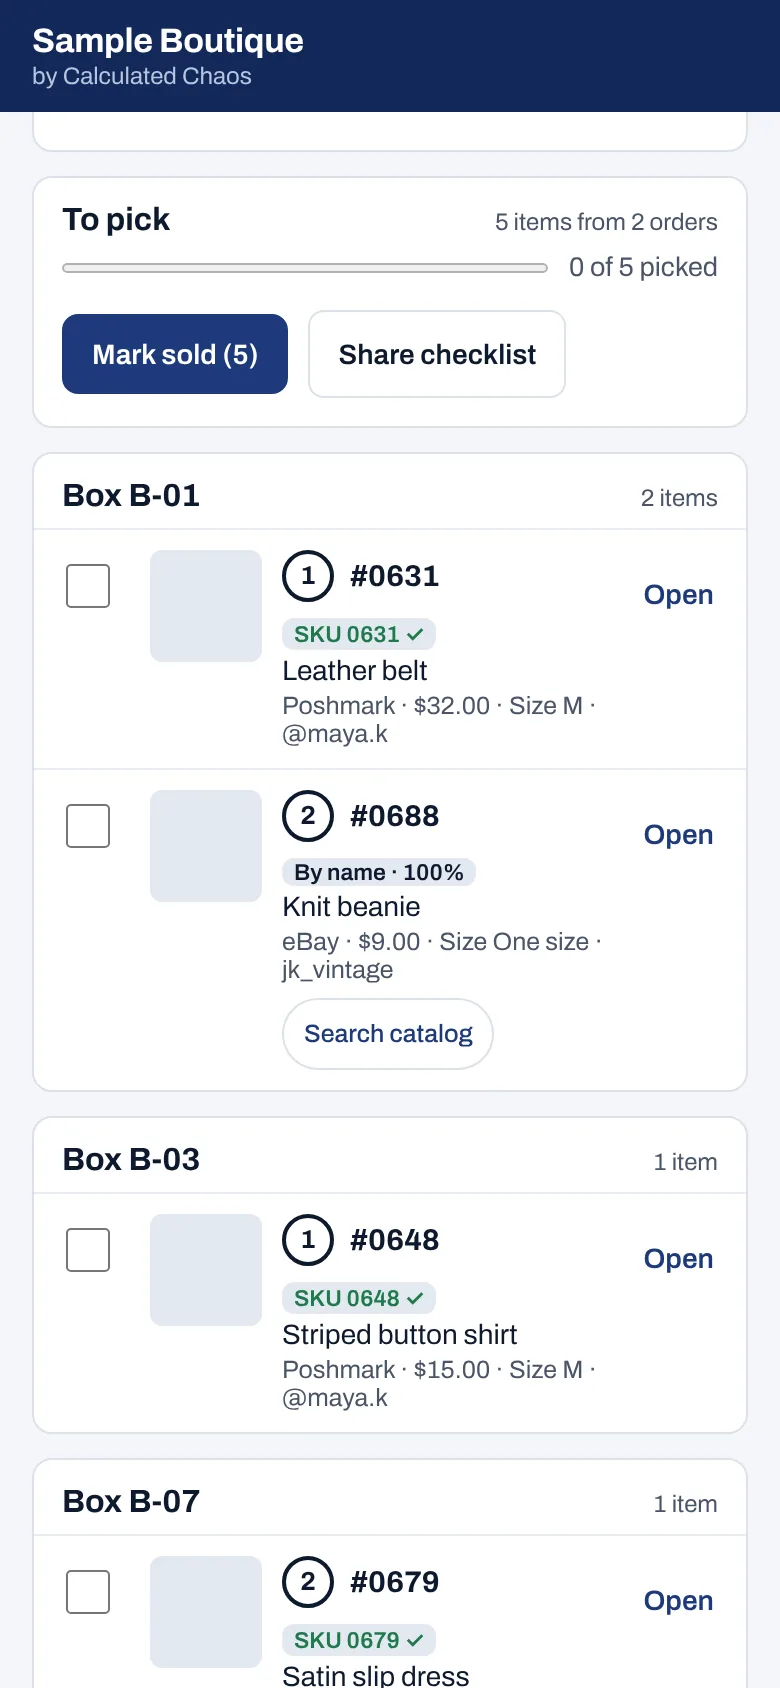
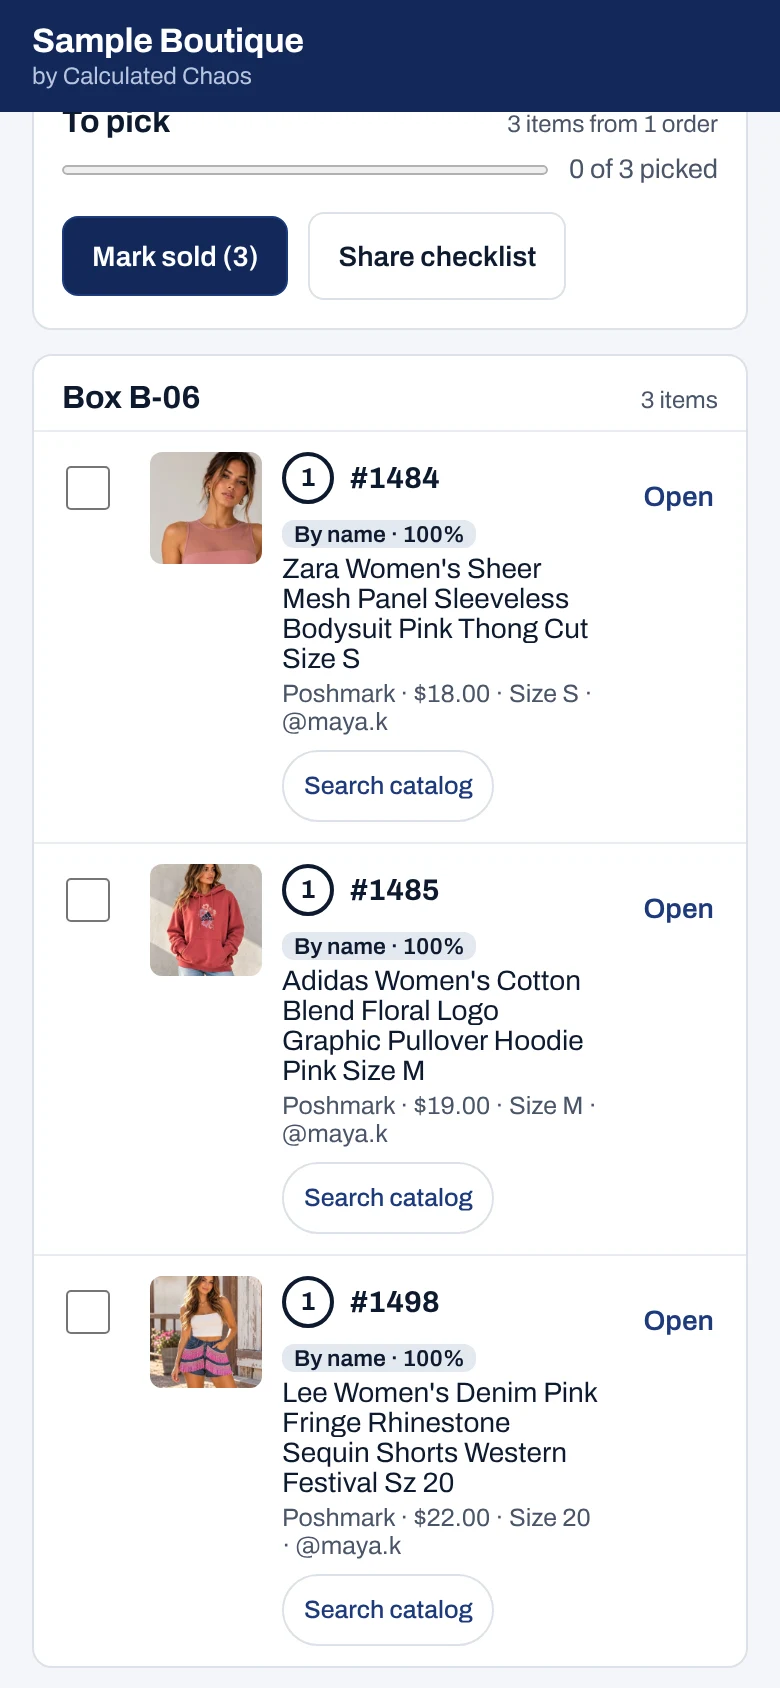
Welcome page: Pick screenshots from the sample list (v3.27.19) (#205)
* Welcome page: inset the listing card, match Parcel tokens to style.css (v3.27.18)

- The listing draft card has 16 px inside space; its text no longer
  touches the frame or the caption.
- The welcome page's Parcel tokens now use style.css values for line,
  profit (= ok) and warning (= warn-ink); the comment said they matched
  and they did not.
- Surface briefs follow their files: index-html.md is the welcome page
  (index.html), app-html.md is the app shell (app.html). welcome-html.md
  pointed at a file that no longer exists.

Claude-Session: https://claude.ai/code/session_01BkcLUQWNuzU2vURWuG7pMR

* Harness: photos for the Pick thumbnails

The five pieces on the sample Pick list get a photo (belt, striped shirt,
corduroy pants, slip dress, beanie). Sample data for screenshots only; the
app and the welcome page are unchanged.

Claude-Session: https://claude.ai/code/session_01BkcLUQWNuzU2vURWuG7pMR

* Harness: Pick thumbnails from the owner's photos

Pants use the fringe denim shorts, the striped shirt uses the pink mesh
bodysuit, the slip dress uses the tan smocked dress already in the welcome
photos. The belt and the beanie keep their generated images: no uploaded
photo matches them. Sample data for screenshots only.

Claude-Session: https://claude.ai/code/session_01BkcLUQWNuzU2vURWuG7pMR

* Harness: Pick list built from the owner's three photos and cards

The sample Pick list is one Poshmark order with three pieces (shorts,
[…]

diff --git a/tests/harness/sample-data.js b/tests/harness/sample-data.js
@@ -6,6 +6,18 @@
 const DAY = 24 * 60 * 60 * 1000;
 const BIZ = 'businesses/harness';
 
+// Thumbnails for the pieces on the Pick list (the photos the Pick screen draws).
+const PICK_PHOTOS = {
+  '#0631': '/tests/harness/photos/pick-belt.webp',
+  '#0648': '/tests/harness/photos/pick-bodysuit.webp',
+  '#0662': '/tests/harness/photos/pick-pants.webp',
+  '#0679': '/welcome/sample-photo-2.webp',
+  '#0688': '/tests/harness/photos/pick-beanie.webp',
+  '#1498': '/tests/harness/photos/pick-shorts.webp',
+  '#1484': '/tests/harness/photos/pick-bodysuit.webp',
+  '#1485': '/tests/harness/photos/pick-hoodie.webp',
+};
+
 // [code, name, clothingType, brand, size, color, cost, listPrice, status,
 //  platforms, box, createdDaysAgo, soldDaysAgo, soldPrice, fees, shipping]
 const PIECES = [
@@ -34,6 +46,10 @@ const PIECES = [
   ['#0774', 'Quilted jacket', 'Jacket', 'Lands’ End', 'L', 'Green', 8, 40, 'catalogado', [], 'B-07', 0, null, null, null, null],
   ['#0779', 'Athletic leggings', 'Pants', 'Lululemon', '6', 'Black', 5, 24, 'catalogado', [], 'B-03', 0, null, null, null, null],
   ['#0781', 'Denim mini skirt', 'Skirt', 'Abercrombie', '4', 'Indigo', 3, 16, 'catalogado', [], 'B-12', 0, null, null, null, null],
+  // The three pieces on the sample Pick list (photos and names from the owner's cards).
+  ['#1498', "Lee Women's Denim Pink Fringe Rhinestone Sequin Shorts Western Festival Sz 20", 'Shorts', 'Lee', '20', 'Blue', 6, 22, 'anunciado', ['poshmark'], 'B-06', 1, null, null, null, null],
+  ['#1484', "Zara Women's Sheer Mesh Panel Sleeveless Bodysuit Pink Thong Cut Size S", 'Bodysuit', 'Zara', 'S', 'Pink', 5, 18, 'anunciado', ['poshmark'], 'B-06', 2, null, null, null, null],
+  ['#1485', "Adidas Women's Cotton Blend Floral Logo Graphic Pullover Hoodie Pink Size M", 'Hoodie', 'Adidas', 'M', 'Pink', 8, 19, 'anunciado', ['poshmark'], 'B-06', 3, null, null, null, null],
 ];
 
 // A larger sample catalog, so the Home numbers read as a busy business:
@@ -86,7 +102,7 @@ export function sampleDocs(now = Date.now()){
     const netProfit = sold ? Math.round((soldPrice - fees - shipping - cost) * 100) / 100 : null;
     docs.push([`${BIZ}/items/${id}`, {
       id, productCode: code, name, clothingType, category: 'Women', brand, size, color,
-      cost, listPrice, status, listedPlatforms: platforms, storageBox: box, photos: [],
+      cost, listPrice, status, listedPlatforms: platforms, storageBox: box, photos: PICK_PHOTOS[code] ? [PICK_PHOTOS[code]] : [],
       hostedPhotoUrls: null, condition: 'Excellent', createdAt: now - createdDays * DAY,
       ...(sold ? { soldAt, soldPrice, soldPlatform: platforms[0], feesTotal: fees, shippingCost: shipping, otherCosts: 0, netProfit } : {}),
       ...(i === 9 ? { ebayPublishError: { message: 'Missing item specifics: Brand', at: now - DAY } } : {}),

diff --git a/index.html b/index.html
@@ -295,7 +295,7 @@
       <div class="tour-screen">
         <img class="tour-img is-on" src="/welcome/home-phone.webp" width="780" height="1688" alt="Home with sample numbers and the items that need attention">
         <img class="tour-img" src="/welcome/catalog-phone.webp" width="780" height="1688" alt="Catalog with sample pieces, product codes and boxes" aria-hidden="true">
-        <img class="tour-img" src="/welcome/pick-phone.webp" width="780" height="1688" alt="Stock pick list grouped by box, with a warning for a piece still listed elsewhere" aria-hidden="true">
+        <img class="tour-img" src="/welcome/pick-phone.webp" width="780" height="1688" alt="Stock pick list grouped by box, each piece with its photo and its package number" aria-hidden="true">
         <img class="tour-img" src="/welcome/finance-phone.webp" width="780" height="1688" alt="Finances overview with sample sales and profit" aria-hidden="true">
       </div>
     </figure>
@@ -427,7 +427,7 @@
       <figure class="frame" style="margin:0">
         <picture>
           <source media="(max-width: 759px)" srcset="/welcome/pick-phone.webp" width="780" height="1688">
-          <img src="/welcome/pick.webp" width="1968" height="664" alt="The Pick screen with sample data: a To pick list of five items from two orders, grouped by box, each with its package number">
+          <img src="/welcome/pick.webp" width="1968" height="664" alt="The Pick screen with sample data: a To pick list of three items from one order, grouped by box, each with its package number">
         </picture>
         <p class="ok-note"><svg viewBox="0 0 24 24" fill="none" stroke="currentColor" stroke-width="2.2" stroke-linecap="round" stroke-linejoin="round" aria-hidden="true"><path d="M5 12.5l4.5 4.5L19 7.5"/></svg>Sold on Poshmark. Its eBay listing was ended for you.</p>
         <figcaption>Pick list from two sample order screenshots.</figcaption>

diff --git a/src/modules/version.js b/src/modules/version.js
@@ -2,5 +2,5 @@
 // This is what shows in the badge at the top of the app, in CSV exports and
 // in the Developer Panel — it's the single source of truth for "which
 // version is this?"
-export const APP_VERSION = 'v3.27.18';
+export const APP_VERSION = 'v3.27.19';
 export const APP_VERSION_DATE = '2026-10-23';

diff --git a/CLAUDE.md b/CLAUDE.md
@@ -1009,7 +1009,9 @@ on any of these:
 
 ## Pending changelog entry (since v3.27.0)
 
-- v3.27.18: the welcome page's listing card has 16 px of inside space (the text no longer touches the frame or the caption); its Parcel tokens match src/style.css (line, profit and warning colors were off); the welcome brief is `.impeccable/surfaces/index-html.md` and the app shell's is `app-html.md`. Pending: the Pick sample thumbnails (photos for the belt, shirt, pants and beanie are needed first).
+- v3.27.19: the welcome page's Pick screenshots (desktop and phone) come from the harness's new sample list: one Poshmark order with three pieces (a Lee shorts, a Zara bodysuit and an Adidas hoodie), each with its owner's photo, matched by name. The sample photos are in `tests/harness/photos/`. The screenshots show third-party brand names (Lee, Zara, Adidas) in the titles, and the hoodie photo shows the Adidas logo; the owner confirmed publishing them on 2026-10-23. Pending: the Pick screenshot shows no warning, while the feature list still mentions one.
+
+- v3.27.18: the welcome page's listing card has 16 px of inside space (the text no longer touches the frame or the caption); its Parcel tokens match src/style.css (line, profit and warning colors were off); the welcome brief is `.impeccable/surfaces/index-html.md` and the app shell's is `app-html.md`.
 
 - v3.27.16: the listing card shows each sample photo with its own title, category, color and price; the photo and the text change together. On phones the photo sits above the text (it was squeezed to 136 px before).
 
